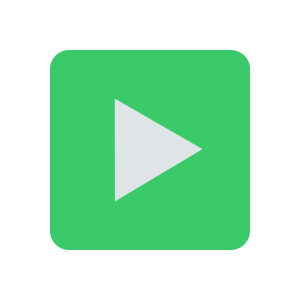
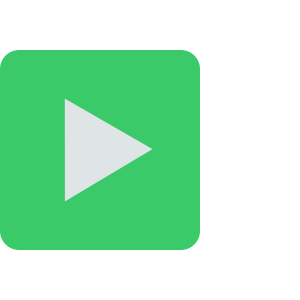
3 pages for 45 lvls

diff --git a/js/levelsMenu.js b/js/levelsMenu.js
@@ -13,7 +13,7 @@ Puzzle.LevelsMenu.prototype.create = function () {
   o.lvls = []; 
   o.pages = o.add.group(); 
 
-  for (var i = 0; i < 30; i++) {
+  for (var i = 0; i < 45; i++) {
         var lvl = o.add.group();
         var image = lvl.create(0,0, Dimensions.getImageKey('box_black'));
         image.anchor.setTo(0.5, 0.5);
@@ -33,20 +33,47 @@ Puzzle.LevelsMenu.prototype.create = function () {
         o.lvls.push(lvl);    
     }
 
-    var paginator = o.paginator = this.game.add.sprite (0,0, 'btn_next');
-    paginator.inputEnabled = true;
-    var page = paginator.page = 0;
-    paginator.anchor.setTo(0.5, 0.5);
-    paginator.events.onInputDown.add(function () {
+    var left = o.left = this.game.add.sprite (0,0, 'btn_next');
+    var right = o.right = this.game.add.sprite (0,0, 'btn_next');
+    right.inputEnabled = true;
+    left.inputEnabled = true;
+    var page = right.page = 0;
+    left.angle = -180;
+    right.anchor.setTo(0, 0.5);
+    left.anchor.setTo(0, 0.5);
+    left.alpha = 0.5;
+    
+    right.events.onInputDown.add(function () {
         if (!o.pages.moving) {
-          page = (++page)%2;
-          o.pages.moving = true;
-          var tween = o.add.tween(o.pages).to( { alpha: 0}, 200, "Linear", true);
-          tween.onComplete.add(function() { 
-              o.add.tween(o.paginator).to( { angle: -180*page }, 200, "Linear", true);
-              tween = o.add.tween(o.pages).to( { alpha: 1, x: o.pages.x - o.width*page + o.width*(1-page) }, 200, "Linear", true);
-              tween.onComplete.add(function() { o.pages.moving=false;});
-          });
+          if (page<o.lvls.length/15-1) {
+            ++page;
+            o.pages.moving = true;
+            var tween = o.add.tween(o.pages).to( { alpha: 0}, 200, "Linear", true);
+            tween.onComplete.add(function() { 
+                tween = o.add.tween(o.pages).to( { alpha: 1, x: -o.width*page }, 200, "Linear", true);
+                tween.onComplete.add(function() { o.pages.moving=false;});
+                left.alpha = 1;
+                if (page==o.lvls.length/15-1)
+                  right.alpha = 0.5;
+            });
+          }
+        }
+    });
+
+    left.events.onInputDown.add(function () {
+        if (!o.pages.moving) {
+          if (page>0) {
+            --page;
+            o.pages.moving = true;
+            var tween = o.add.tween(o.pages).to( { alpha: 0}, 200, "Linear", true);
+            tween.onComplete.add(function() { 
+                tween = o.add.tween(o.pages).to( { alpha: 1, x: -o.width*page }, 200, "Linear", true);
+                tween.onComplete.add(function() { o.pages.moving=false;});
+                right.alpha = 1;
+                if (page==0) 
+                  left.alpha = 0.5;
+            });
+          }
         }
     });
 
@@ -90,9 +117,12 @@ Puzzle.LevelsMenu.onResized = function () {
   o.selLevelText.x = o.width/2;
   o.selLevelText.y = (o.pages.y-o.selLevelText.height)/2;
 
-  o.paginator.width =  o.paginator.height = o.lvls[0].image.width;
-  o.paginator.y = o.pages.y + o.lvls[14].image.y  + BSIZE/4+ o.pages.y/2;
-  o.paginator.x = o.width/2;
+  o.right.width =  o.right.height = o.left.width =  o.left.height = o.lvls[0].image.width;
+  o.right.y = o.left.y = o.pages.y + o.lvls[14].image.y  + BSIZE/4+ o.pages.y/2;
+  o.right.x = o.left.x = o.width/2;
+  o.left.x -= gap/2;
+  o.right.x += gap/2;
+
 };
 
 Puzzle.LevelsMenu.levelInputListener = function (lvl) {

diff --git a/js/mainMenu.js b/js/mainMenu.js
@@ -40,6 +40,7 @@ Puzzle.MainMenu.prototype = {
 
     if ((Data.newbie==1 || Data.completedLevels==0) && !Data.logged) {
       play.alpha = 0;
+      Data.logged = true;
       if (Data.newbie==1) {
         Data.checkIn();
         if (navigator && navigator.globalization) {
